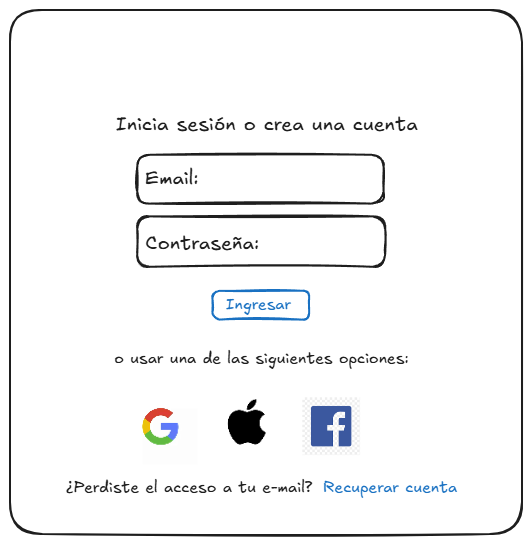
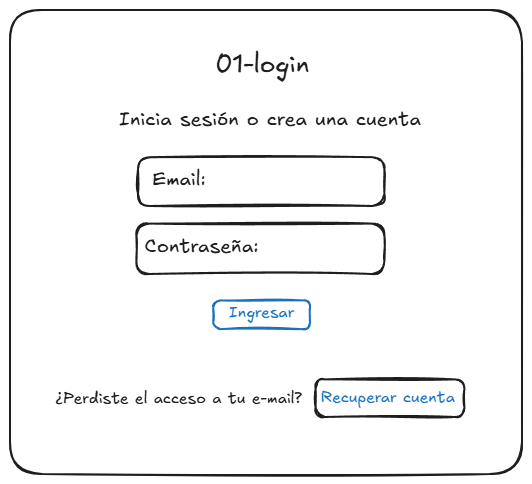
style: agrego imagenes en el catalogo y corrijo styles.css

diff --git a/frontend/catalogo.html b/frontend/catalogo.html
@@ -104,8 +104,8 @@
             <h2>Propiedades disponibles</h2>
 
             <article>
-
-                <h3>Departamento céntrico</h3>
+                <img src="img-cordoba.jpg" alt="casa en las montañas">
+                <h3>casa en las montañas</h3>
 
                 <p>
                     <strong>Ubicación:</strong>
@@ -122,7 +122,7 @@
             </article>
 
             <article>
-
+                <img src="img-villacp.jpg" alt="cabaña con pileta">
                 <h3>Cabaña con pileta</h3>
 
                 <p>
@@ -140,7 +140,7 @@
             </article>
 
             <article>
-
+                <img src="img-rosario.jpg" alt="monoambiente moderno">
                 <h3>Monoambiente moderno</h3>
 
                 <p>

diff --git a/frontend/styles.css b/frontend/styles.css
@@ -161,6 +161,13 @@ body.catalogo header {
     background-color: #ffffff;
 }
 
+/* prolijidad en fotos */
+article img { 
+    width: 100%;
+    height: 200px;
+    object-fit: cover;
+}
+
 /* ==========================
    PANTALLA INICIO
    ========================== */